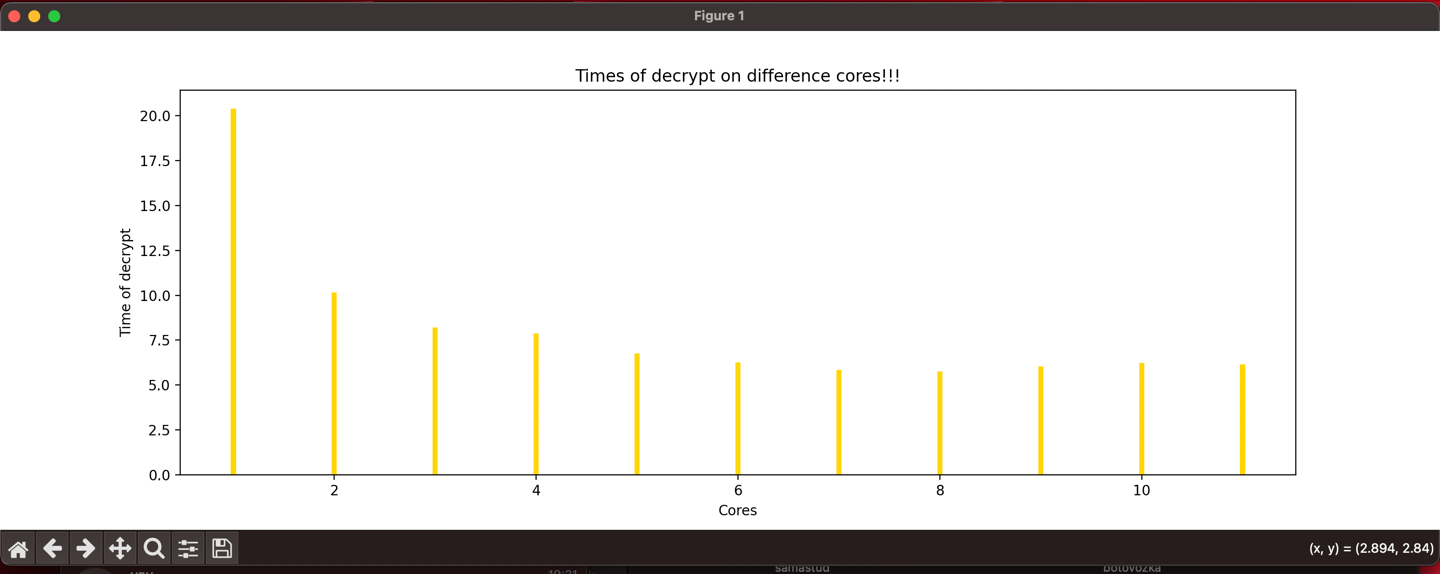
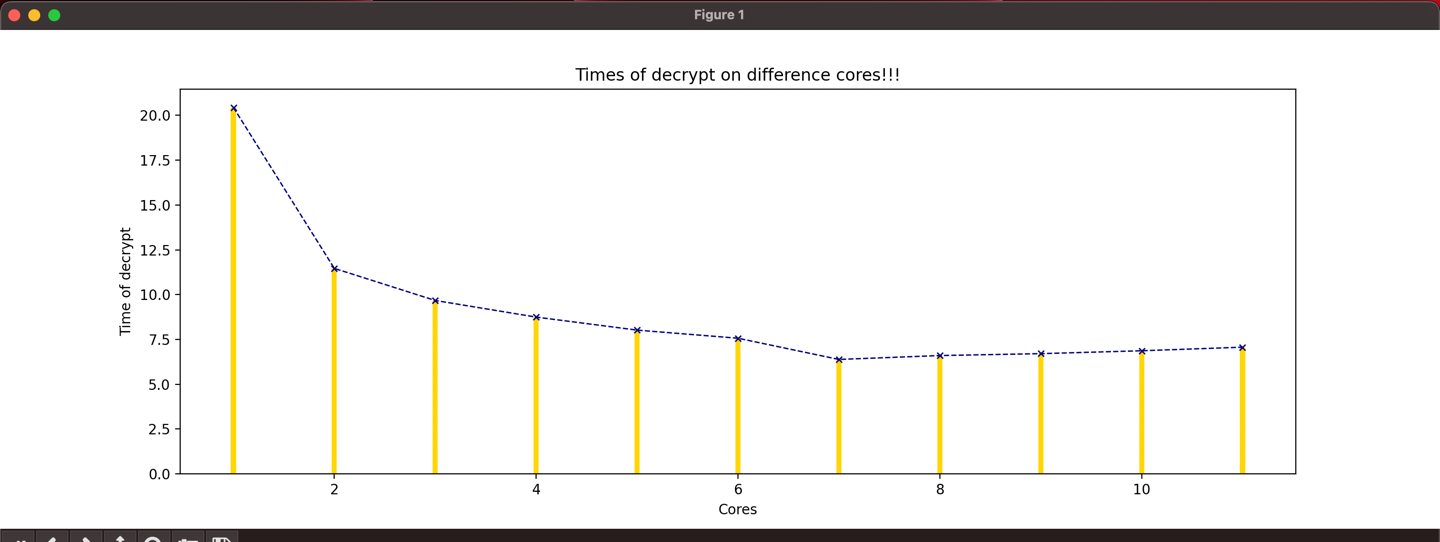
8-th fix commit lab4: fix imports and graph

diff --git a/lab_4/card_handler.py b/lab_4/card_handler.py
@@ -1,9 +1,9 @@
+import hashlib
 import logging
 import time
 
-import hashlib
-from multiprocessing import Pool, cpu_count
 from matplotlib import pyplot
+from multiprocessing import Pool, cpu_count
 
 from functions_assistans import func_handler
 
@@ -75,5 +75,7 @@ def search_for_hash_collision(bins_cards: list, hash_string: str, last_nums: int
     pyplot.xlabel('Cores')
     pyplot.ylabel('Time of decrypt')
     pyplot.title('Times of decrypt on difference cores!!!')
+    pyplot.plot(x, y, color='navy', linestyle='--', marker='x', linewidth=1, markersize=4)
     pyplot.bar(x, y, color='gold', width=0.05)
+
     pyplot.show()
